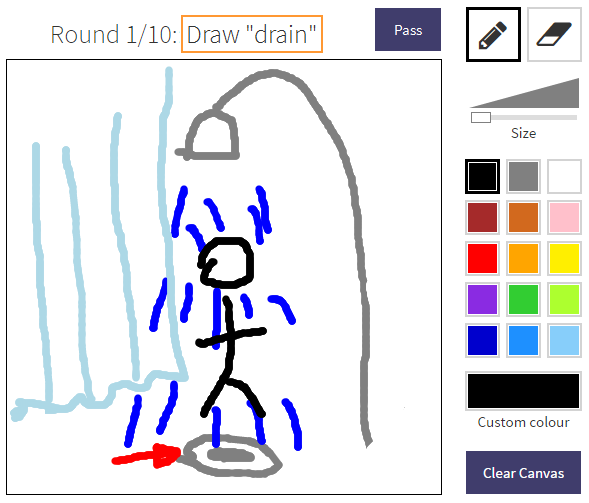
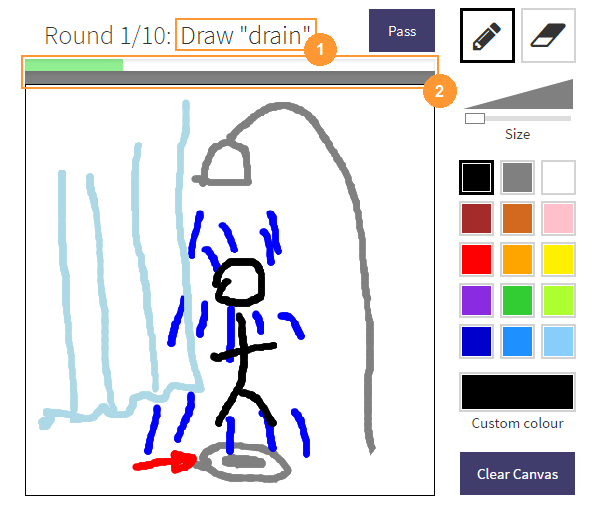
Update more images, add description for timers

diff --git a/modules/rules/client/views/rules.client.view.html b/modules/rules/client/views/rules.client.view.html
@@ -28,7 +28,7 @@
           <div class="caption">
             <blockquote>The player list shows the usernames and points of all the players in the room.
               <b>After the last round, the player with the most points wins!</b></blockquote>
-            In the player list, the drawer's username is bolded.<sup>1</sup> All other players in the room are guessers.<sup>2</sup>
+            In the player list, the drawer's username is bolded.<sup>1</sup> All other players in the room are guessers. If a guesser makes a correct guess a tick will show up to the left of their score.<sup>2</sup>
             The drawer changes each round according to the order in the player list. The player list also shows the number of points
             each user has to the right of their username. The current and maximum number of players is displayed at the top of the player list.
           </div>
@@ -38,7 +38,7 @@
           <img src="modules/rules/client/img/drawer.png" alt="The drawer tries to draw a drain on the canvas."/>
           <div class="caption">
             <blockquote><p>
-              <b>The drawer will be given a prompt that only they can see</b>, and have 90 seconds to draw the prompt on the canvas.
+              <b>The drawer will be given a prompt that only they can see<sup>1</sup></b>, and have a set time to draw the prompt on the canvas.<sup>2</sup>
             </p></blockquote>
 
             Drawers are not allowed to write letters or numbers. In general, drawers should just draw the prompt instead of trying
@@ -46,6 +46,14 @@
             given the prompt "paper boat", one could draw paper, a plus sign, and a boat. Ultimately, the rules are enforced by the
             room host rather than the game. If players disagree with the rules of the host, they are encouraged to host their
             own room.
+          </div>
+        </div>
+        <div class="thumbnail">
+          <img src="modules/rules/client/img/timer.png" alt="The second timer goes to red after the first person guesses correctly."/>
+          <div class="caption">
+            <blockquote><p>
+              <b>After the first user guesses correctly, all the other guessers must guess in a specific time.</b> The top timer will stop and the bottom one will start.
+            </p></blockquote>
           </div>
         </div>
 
